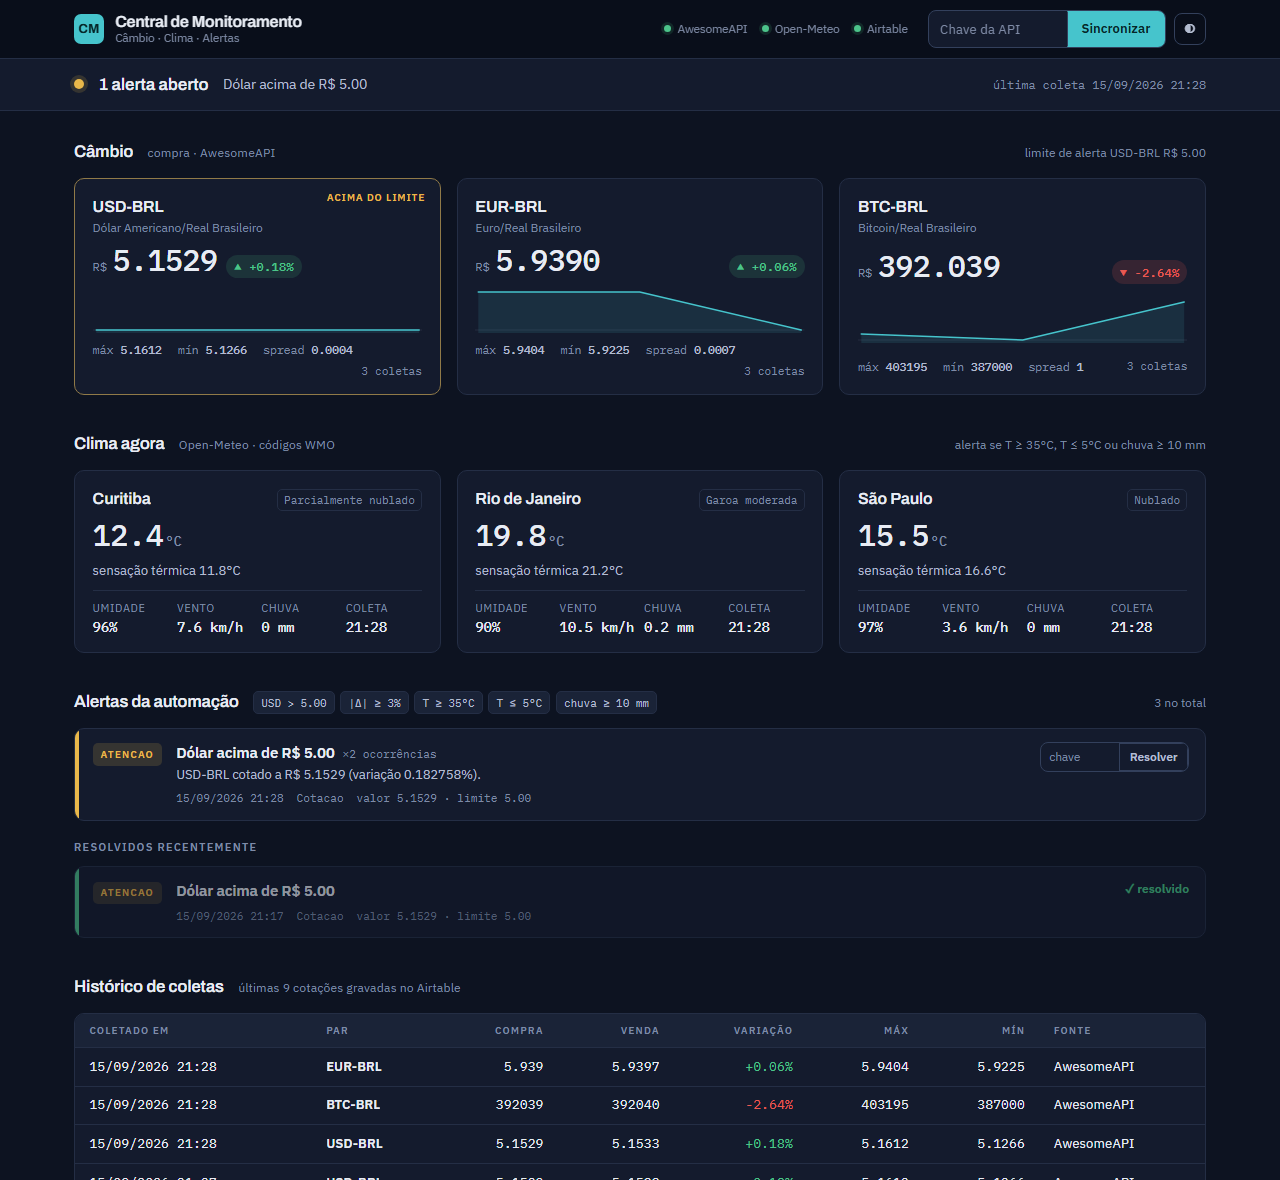
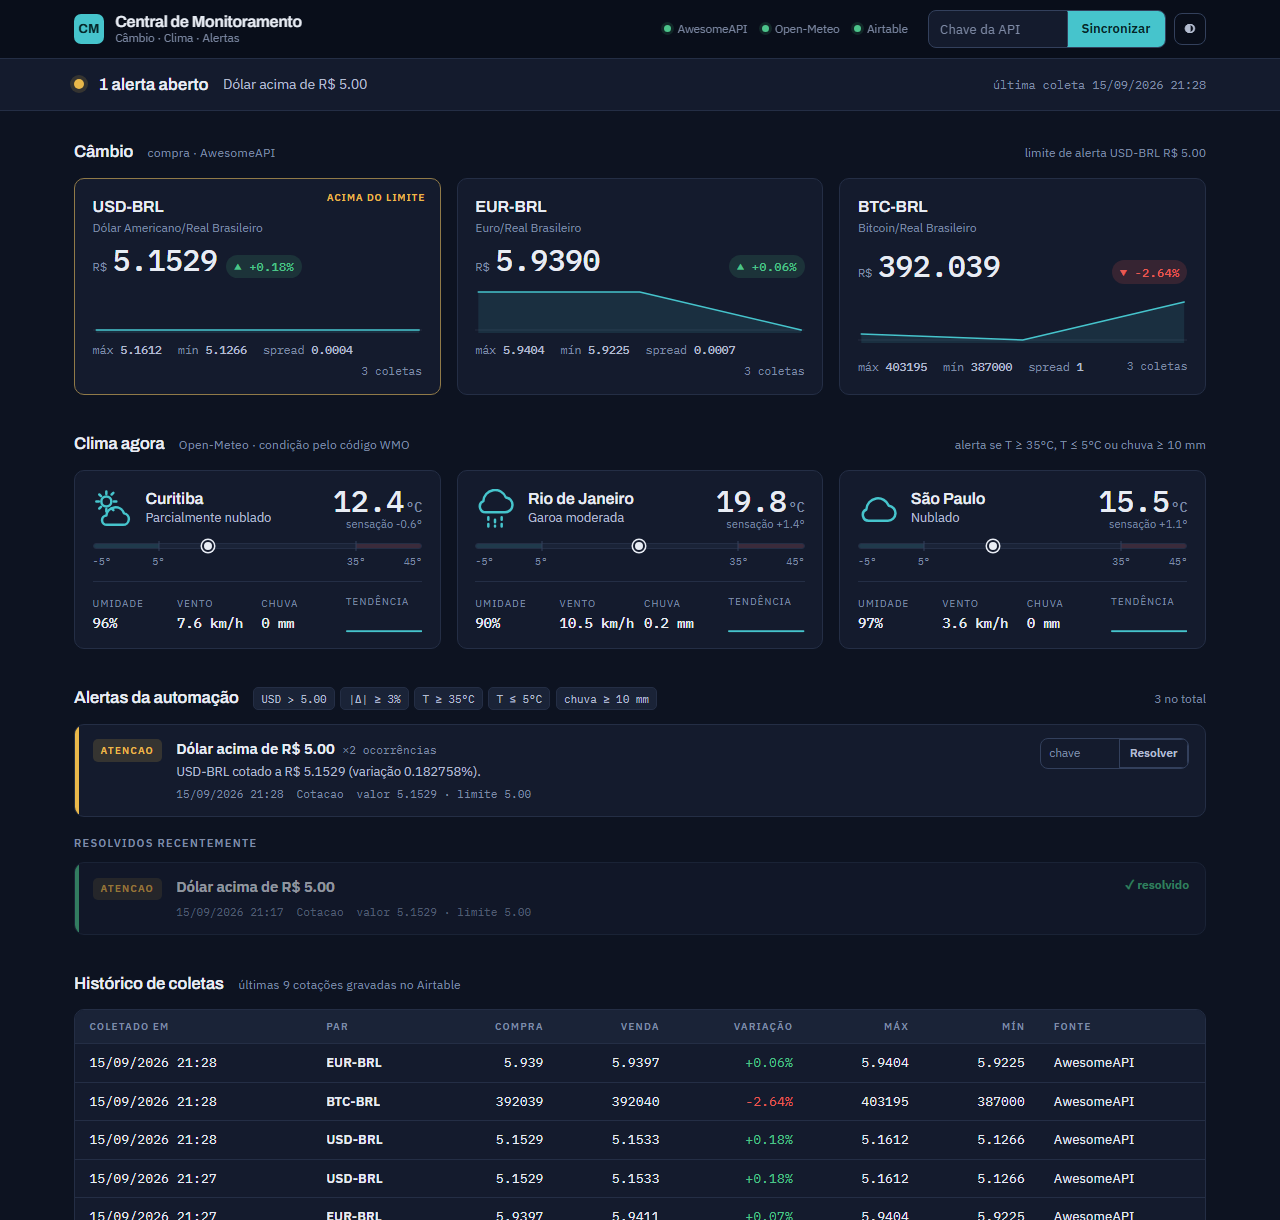
Clima: simbolos WMO, regua de temperatura com limites de alerta, delta de sensacao e tendencia por cidade

diff --git a/templates/dashboard.html b/templates/dashboard.html
@@ -14,6 +14,18 @@
 </head>
 <body>
 
+<!-- Símbolos meteorológicos (grupos de código WMO) — ícones de linha, desenhados uma vez -->
+<svg width="0" height="0" style="position:absolute" aria-hidden="true">
+  <symbol id="i-sol" viewBox="0 0 24 24"><circle cx="12" cy="12" r="4.5"/><path d="M12 2v2.5M12 19.5V22M2 12h2.5M19.5 12H22M4.9 4.9l1.8 1.8M17.3 17.3l1.8 1.8M4.9 19.1l1.8-1.8M17.3 6.7l1.8-1.8"/></symbol>
+  <symbol id="i-sol-nuvem" viewBox="0 0 24 24"><circle cx="8" cy="7.5" r="3"/><path d="M8 1.5V3M8 12v1.5M2 7.5h1.5M12.5 7.5H14M3.8 3.3l1 1M11.2 11.7l1 1M3.8 11.7l1-1M11.2 3.3l1-1"/><path d="M18 21.5a3.5 3.5 0 0 0 .6-6.95A5.5 5.5 0 0 0 8 15.9 2.8 2.8 0 0 0 8.5 21.5H18z"/></symbol>
+  <symbol id="i-nuvem" viewBox="0 0 24 24"><path d="M18 19a4.5 4.5 0 0 0 .5-8.97A7 7 0 0 0 5 12.3 3.5 3.5 0 0 0 6.5 19H18z"/></symbol>
+  <symbol id="i-neblina" viewBox="0 0 24 24"><path d="M18 14a4.5 4.5 0 0 0 .5-8.97A7 7 0 0 0 5 7.3 3.5 3.5 0 0 0 6.5 14H18z"/><path d="M4 18h16M7 21.5h10"/></symbol>
+  <symbol id="i-garoa" viewBox="0 0 24 24"><path d="M18 14a4.5 4.5 0 0 0 .5-8.97A7 7 0 0 0 5 7.3 3.5 3.5 0 0 0 6.5 14H18z"/><path d="M8 17v1.5M8 21v1.5M12 18.5v1.5M12 22v.5M16 17v1.5M16 21v1.5"/></symbol>
+  <symbol id="i-chuva" viewBox="0 0 24 24"><path d="M18 13a4.5 4.5 0 0 0 .5-8.97A7 7 0 0 0 5 6.3 3.5 3.5 0 0 0 6.5 13H18z"/><path d="M8 16l-1.5 4M12 16l-1.5 4M16 16l-1.5 4M10 21l-.7 2M14 21l-.7 2"/></symbol>
+  <symbol id="i-neve" viewBox="0 0 24 24"><path d="M18 13a4.5 4.5 0 0 0 .5-8.97A7 7 0 0 0 5 6.3 3.5 3.5 0 0 0 6.5 13H18z"/><path d="M8 17h.01M8 21h.01M12 19h.01M12 23h.01M16 17h.01M16 21h.01" stroke-width="2.4"/></symbol>
+  <symbol id="i-tempestade" viewBox="0 0 24 24"><path d="M18 12a4.5 4.5 0 0 0 .5-8.97A7 7 0 0 0 5 5.3 3.5 3.5 0 0 0 6.5 12H18z"/><path d="M13 11l-3.5 5.5H13L10.5 22"/></symbol>
+</svg>
+
 <header class="topbar">
   <div class="wrap">
     <div class="brand">
@@ -98,25 +110,57 @@
   <section aria-labelledby="h-clima">
     <div class="head">
       <h2 id="h-clima">Clima agora</h2>
-      <span class="hint">Open-Meteo · códigos WMO</span>
+      <span class="hint">Open-Meteo · condição pelo código WMO</span>
       <span class="right">alerta se T ≥ {{ limites.temp_max|int }}°C, T ≤ {{ limites.temp_min|int }}°C ou chuva ≥ {{ limites.chuva|int }} mm</span>
     </div>
     <div class="tiles">
       {% for c in clima %}
       {% set t = c.Temperatura or 0 %}
       {% set cls = 'hot' if t >= limites.temp_max else ('cold' if t <= limites.temp_min else ('rain' if (c.Chuva or 0) >= limites.chuva else '')) %}
+      {% set sp = c.serie|sparkline(300, 36) %}
       <article class="wx {{ cls }}">
-        <div class="top">
-          <div class="city">{{ c.Cidade }}</div>
-          <span class="wmo" title="Código WMO da condição">{{ c.Condicao }}</span>
+        <div class="wx-top">
+          <svg class="wx-icon" aria-hidden="true"><use href="#i-{{ c.icone }}"/></svg>
+          <div>
+            <div class="city">{{ c.Cidade }}</div>
+            <div class="cond">{{ c.Condicao }}</div>
+          </div>
+          <div class="temp"><span>{{ "%.1f"|format(t) }}<small>°C</small></span>
+            {% if c.delta_sensacao is defined %}<span class="feels">sensação {{ "%+.1f"|format(c.delta_sensacao) }}°</span>{% endif %}
+          </div>
         </div>
-        <div class="temp">{{ "%.1f"|format(t) }}<small>°C</small></div>
-        <div class="cond">sensação térmica {{ c.SensacaoTermica }}°C</div>
+
+        <!-- Régua: onde a leitura está em relação aos limites da automação -->
+        {% if c.pos is not none %}
+        <div class="gauge" role="img" aria-label="Temperatura {{ t }}°C numa régua de {{ regua.lo|int }} a {{ regua.hi|int }}°C; alerta abaixo de {{ limites.temp_min|int }} e acima de {{ limites.temp_max|int }}">
+          <div class="track">
+            <div class="zone cold" style="width: {{ '%.1f'|format(regua.min_pct) }}%"></div>
+            <div class="zone hot" style="left: {{ '%.1f'|format(regua.max_pct) }}%; width: {{ '%.1f'|format(100 - regua.max_pct) }}%"></div>
+            <span class="tick" style="left: {{ '%.1f'|format(regua.min_pct) }}%"></span>
+            <span class="tick" style="left: {{ '%.1f'|format(regua.max_pct) }}%"></span>
+            <span class="marker" style="left: {{ '%.1f'|format(c.pos) }}%"></span>
+          </div>
+          <div class="labels">
+            <span>{{ regua.lo|int }}°</span>
+            <span style="left: {{ '%.1f'|format(regua.min_pct) }}%">{{ limites.temp_min|int }}°</span>
+            <span style="left: {{ '%.1f'|format(regua.max_pct) }}%">{{ limites.temp_max|int }}°</span>
+            <span class="end">{{ regua.hi|int }}°</span>
+          </div>
+        </div>
+        {% endif %}
+
         <div class="stats">
           <span>umidade<b>{{ c.Umidade }}%</b></span>
           <span>vento<b>{{ c.Vento }} km/h</b></span>
-          <span>chuva<b>{{ c.Chuva }} mm</b></span>
-          <span>coleta<b>{{ (c.ColetadoEm|data_br)[-5:] }}</b></span>
+          <span>chuva<b class="{{ 'warn' if (c.Chuva or 0) >= limites.chuva }}">{{ c.Chuva }} mm</b></span>
+          <span class="trend">tendência
+            {% if sp %}
+            <svg class="spark spark-sm" viewBox="0 0 {{ sp.w }} {{ sp.h }}" preserveAspectRatio="none" aria-label="Temperatura nas últimas {{ c.serie|length }} coletas">
+              <polygon class="area" points="{{ sp.area }}"></polygon>
+              <polyline class="line" points="{{ sp.linha }}"></polyline>
+            </svg>
+            {% else %}<b>—</b>{% endif %}
+          </span>
         </div>
       </article>
       {% else %}

diff --git a/static/style.css b/static/style.css
@@ -132,16 +132,32 @@ main.wrap { padding-top: 1.75rem; padding-bottom: 2.5rem; display: grid; gap: 2.
 .tile.alerting .top { padding-right: 7.5rem; }
 
 /* weather tiles */
-.wx { background: var(--surface); border: 1px solid var(--border); border-radius: var(--radius); padding: 1rem 1.1rem .9rem; display: grid; gap: .6rem; }
-.wx .top { display: flex; align-items: baseline; justify-content: space-between; gap: .5rem; }
-.wx .city { font-family: var(--font-display); font-weight: 600; font-size: 1rem; }
-.wx .wmo { font-family: var(--font-mono); font-size: .68rem; color: var(--muted); border: 1px solid var(--border); padding: .1rem .4rem; border-radius: 5px; white-space: nowrap; }
-.wx .temp { font-family: var(--font-mono); font-variant-numeric: tabular-nums; font-size: 1.85rem; font-weight: 500; line-height: 1.05; }
+.wx { background: var(--surface); border: 1px solid var(--border); border-radius: var(--radius); padding: 1rem 1.1rem .9rem; display: grid; gap: .8rem; }
+.wx-top { display: grid; grid-template-columns: auto 1fr auto; gap: .8rem; align-items: center; }
+.wx-icon { width: 40px; height: 40px; fill: none; stroke: var(--accent); stroke-width: 1.5; stroke-linecap: round; stroke-linejoin: round; }
+.wx .city { font-family: var(--font-display); font-weight: 600; font-size: 1rem; line-height: 1.15; }
+.wx .cond { color: var(--text-2); font-size: .8rem; }
+.wx .temp { font-family: var(--font-mono); font-variant-numeric: tabular-nums; font-size: 1.85rem; font-weight: 500; line-height: 1; text-align: right; display: grid; gap: .2rem; }
 .wx .temp small { font-size: .85rem; color: var(--muted); margin-left: .1rem; }
-.wx .cond { color: var(--text-2); font-size: .82rem; }
-.wx .stats { display: grid; grid-template-columns: repeat(4, 1fr); gap: .5rem; padding-top: .6rem; border-top: 1px solid var(--border); }
-.wx .stats span { font-size: .66rem; color: var(--muted); text-transform: uppercase; letter-spacing: .08em; }
-.wx .stats b { display: block; font-family: var(--font-mono); font-variant-numeric: tabular-nums; font-weight: 500; font-size: .86rem; color: var(--text); letter-spacing: 0; text-transform: none; white-space: nowrap; }
+.wx .feels { font-family: var(--font-body); font-size: .7rem; color: var(--muted); font-weight: 400; }
+.gauge { display: grid; gap: .3rem; }
+.gauge .track { position: relative; height: 6px; border-radius: 3px; background: var(--surface-2); border: 1px solid var(--border); }
+.gauge .zone { position: absolute; top: 0; bottom: 0; }
+.gauge .zone.cold { left: 0; background: var(--accent-soft); border-radius: 3px 0 0 3px; }
+.gauge .zone.hot { background: var(--crit-soft); border-radius: 0 3px 3px 0; }
+.gauge .tick { position: absolute; top: -3px; bottom: -3px; width: 1px; background: var(--border-strong); transform: translateX(-.5px); }
+.gauge .marker { position: absolute; top: 50%; width: 12px; height: 12px; border-radius: 50%; background: var(--text); border: 2px solid var(--surface); box-shadow: 0 0 0 1.5px var(--text); transform: translate(-50%, -50%); }
+.wx.hot .gauge .marker { background: var(--crit); box-shadow: 0 0 0 1.5px var(--crit); }
+.wx.cold .gauge .marker { background: var(--accent); box-shadow: 0 0 0 1.5px var(--accent); }
+.gauge .labels { position: relative; height: .9rem; font-family: var(--font-mono); font-variant-numeric: tabular-nums; font-size: .64rem; color: var(--muted); }
+.gauge .labels span { position: absolute; top: 0; transform: translateX(-50%); }
+.gauge .labels span:first-child { transform: none; left: 0; }
+.gauge .labels .end { right: 0; transform: none; }
+.wx .stats { display: grid; grid-template-columns: repeat(4, 1fr); gap: .5rem; padding-top: .7rem; border-top: 1px solid var(--border); align-items: end; }
+.wx .stats span { font-size: .64rem; color: var(--muted); text-transform: uppercase; letter-spacing: .08em; }
+.wx .stats b { display: block; font-family: var(--font-mono); font-variant-numeric: tabular-nums; font-weight: 500; font-size: .86rem; color: var(--text); letter-spacing: 0; text-transform: none; white-space: nowrap; margin-top: .1rem; }
+.wx .stats b.warn { color: var(--warn); }
+.wx .stats .trend .spark-sm { height: 22px; margin-top: .15rem; }
 .wx.hot { border-color: color-mix(in srgb, var(--crit) 55%, var(--border)); }
 .wx.cold { border-color: color-mix(in srgb, var(--accent) 55%, var(--border)); }
 .wx.rain { border-color: color-mix(in srgb, var(--warn) 55%, var(--border)); }
@@ -179,4 +195,4 @@ td.up { color: var(--ok); } td.down { color: var(--crit); }
 footer.wrap { padding-top: 1rem; padding-bottom: 2.5rem; color: var(--muted); font-size: .74rem; display: flex; flex-wrap: wrap; gap: .5rem 1rem; border-top: 1px solid var(--border); }
 footer .grow { flex: 1; }
 
-@media (max-width: 760px) { .sources { display: none; } .topbar .wrap { gap: .75rem; } .brand .sub { display: none; } .wx .stats { grid-template-columns: repeat(2, 1fr); } .state .when { margin-left: 0; } }
+@media (max-width: 760px) { .sources { display: none; } .topbar .wrap { gap: .75rem; } .brand .sub { display: none; } .wx .stats { grid-template-columns: repeat(2, 1fr); } .wx-icon { width: 32px; height: 32px; } .state .when { margin-left: 0; } }

diff --git a/app.py b/app.py
@@ -145,9 +145,24 @@ def montar_contexto(dados: dict) -> dict:
         serie.reverse()
         ultimas[par]["serie"] = [v for v in serie if v is not None][-12:]
 
-    ultimo_clima = {}
+    # Último clima por cidade + série de temperatura + ícone + posição na régua de limites
+    ultimo_clima, series_t = {}, {}
     for c in dados["clima"]:
-        ultimo_clima.setdefault(c.get("Cidade"), c)
+        cid = c.get("Cidade")
+        ultimo_clima.setdefault(cid, c)
+        series_t.setdefault(cid, []).append(c.get("Temperatura"))
+    lo, hi = config.LIMITE_TEMP_MIN - 10, config.LIMITE_TEMP_MAX + 10
+    for cid, c in ultimo_clima.items():
+        serie = [v for v in reversed(series_t[cid]) if v is not None][-12:]
+        c["serie"] = serie
+        c["icone"] = clima.icone(c.get("Condicao", ""))
+        t = c.get("Temperatura")
+        c["pos"] = None if t is None else max(0, min(100, (t - lo) / (hi - lo) * 100))
+        if t is not None and c.get("SensacaoTermica") is not None:
+            c["delta_sensacao"] = c["SensacaoTermica"] - t
+    regua = {"lo": lo, "hi": hi,
+             "min_pct": (config.LIMITE_TEMP_MIN - lo) / (hi - lo) * 100,
+             "max_pct": (config.LIMITE_TEMP_MAX - lo) / (hi - lo) * 100}
 
     # Alertas: abertos agrupados por título (com contagem de ocorrências), depois os resolvidos
     abertos, resolvidos = {}, []
@@ -188,6 +203,7 @@ def montar_contexto(dados: dict) -> dict:
         "abertos": lista_abertos,
         "resolvidos": resolvidos[:6],
         "estado": estado,
+        "regua": regua,
         "historico": dados["cotacoes"][:12],
         "erro": dados["erro"],
         "kpis": {"abertos": len(lista_abertos), "criticos": criticos, "ultima": ultima_coleta,

diff --git a/services/clima.py b/services/clima.py
@@ -52,3 +52,17 @@ def buscar_clima_todas(cidades: list[dict]) -> list[dict]:
         except requests.RequestException as e:
             resultado.append({"cidade": c["nome"], "erro": str(e)})
     return resultado
+
+
+# Grupos de códigos WMO -> símbolo do painel (ícones de linha definidos no template)
+_ICONES = {
+    "sol": {0}, "sol-nuvem": {1, 2}, "nuvem": {3}, "neblina": {45, 48},
+    "garoa": {51, 53, 55}, "chuva": {61, 63, 65, 80, 81, 82},
+    "neve": {71, 73, 75}, "tempestade": {95, 96, 99},
+}
+_ICONE_POR_TEXTO = {CODIGOS_WMO[c]: nome for nome, codigos in _ICONES.items() for c in codigos}
+
+
+def icone(condicao: str) -> str:
+    """Nome do ícone para uma descrição de condição gravada no banco."""
+    return _ICONE_POR_TEXTO.get(condicao, "nuvem")

diff --git a/evidencias/README.md b/evidencias/README.md
@@ -4,7 +4,7 @@ Prints que comprovam o sistema funcionando.
 
 ## Dashboard (interface da Central)
 
-Linha de estado em palavras (colorida pela pior severidade), tiles de câmbio com sparkline e spread, clima por cidade, alertas abertos agrupados e resolvidos, histórico de coletas. Tema claro/escuro pelo botão ◐. Versão navegável: https://claude.ai/code/artifact/5ed94314-b08d-46fe-b489-ef82ea3a6ada
+Linha de estado em palavras (colorida pela pior severidade), tiles de câmbio com sparkline e spread, clima por cidade com símbolo da condição (WMO), régua de temperatura mostrando a distância até os limites de alerta e tendência das coletas, alertas abertos agrupados e resolvidos, histórico de coletas. Tema claro/escuro pelo botão ◐. Versão navegável: https://claude.ai/code/artifact/5ed94314-b08d-46fe-b489-ef82ea3a6ada
 
 ![Dashboard](01-dashboard.png)
 
